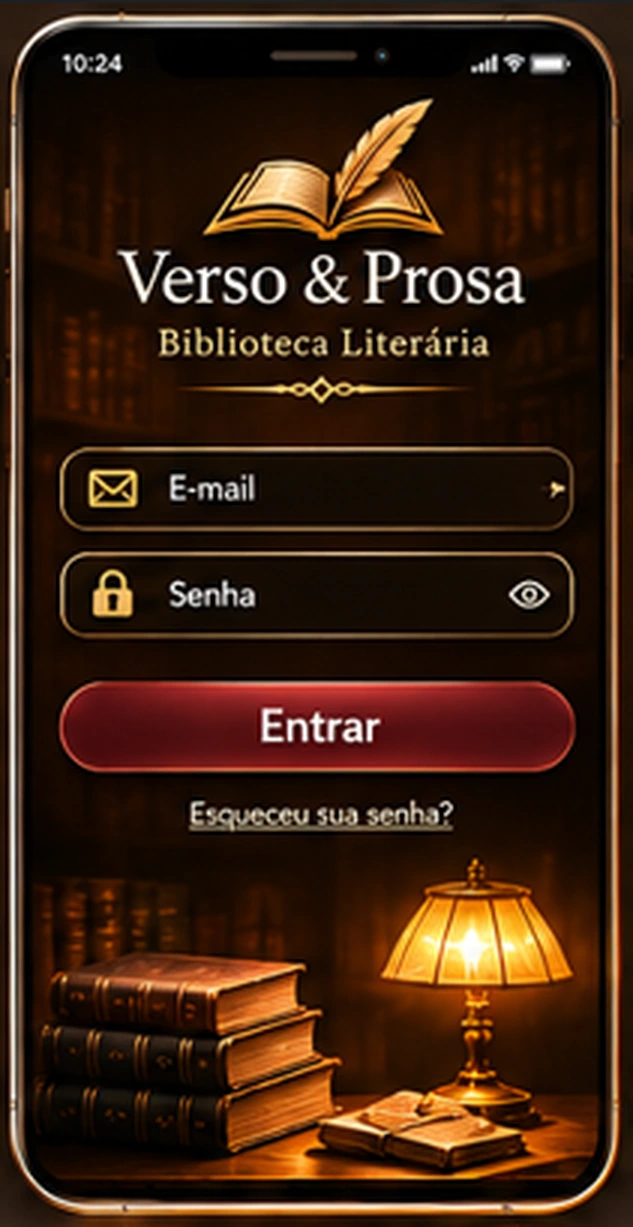
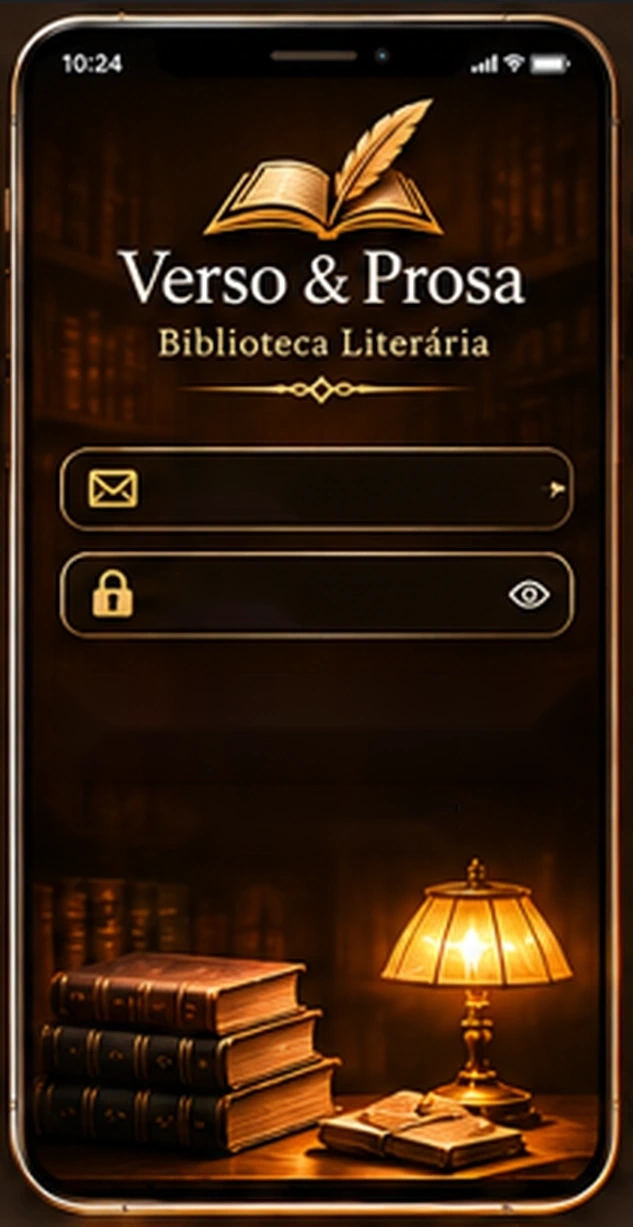
Add files via upload

Changed region(s): [[0.09, 0.5265, 0.9305, 0.6813], [0.2701, 0.3716, 0.4202, 0.4336], [0.2701, 0.4645, 0.4202, 0.4955]]

diff --git a/style.css b/style.css
@@ -585,3 +585,27 @@ main{background:linear-gradient(180deg,rgba(17,8,4,.16),rgba(13,6,3,.56))}
  .login-screen{padding:5px;}
  .login-mockup{height:calc(100svh - 10px);width:auto;max-width:95vw;}
 }
+
+
+/* LOGIN v2 — mockup fiel com controles HTML reais, sem texto achatado na arte */
+.login-screen{padding:10px;background:#080604;}
+.login-screen::before{background:url('./assets/scenes/login-mockup-approved.webp') center/auto 100% no-repeat;filter:blur(24px) brightness(.22);transform:scale(1.12);opacity:.7;}
+.login-mockup{position:relative;width:min(100%,420px,calc((100svh - 20px)*.516));height:auto;aspect-ratio:633/1227;max-height:calc(100svh - 20px);flex:0 1 auto;}
+.login-mockup-art{position:absolute;inset:0;width:100%;height:100%;object-fit:contain;display:block;user-select:none;-webkit-user-drag:none;}
+.login-hotspots{position:absolute;inset:0;margin:0;padding:0;border:0;}
+.login-input{position:absolute;left:10%;width:80%;height:7.15%;padding:0 8% 0 18%;border:0!important;border-radius:12px;background:transparent!important;color:#fff4df!important;font:500 clamp(13px,3.3vw,17px) Arial,sans-serif;outline:none!important;box-shadow:none!important;margin:0!important;z-index:2;}
+.login-input::placeholder{color:rgba(255,242,218,.92);opacity:1;}
+.login-input:focus{background:rgba(255,220,160,.045)!important;box-shadow:inset 0 0 0 1px rgba(238,190,103,.5)!important;}
+.login-email{top:36.5%;}
+.login-password{top:45.0%;}
+.login-eye{position:absolute;left:82.5%;top:45.1%;width:8%;height:6.9%;border:0;background:transparent;border-radius:50%;padding:0;z-index:3;}
+.login-eye:focus-visible,.login-submit:focus-visible,.login-forgot:focus-visible{outline:2px solid #f3c46d;outline-offset:1px;}
+.login-eye::after{content:"";position:absolute;inset:34%;border:1.5px solid rgba(255,239,211,.9);border-radius:70% 20%;transform:rotate(45deg);opacity:0;}
+.login-submit{position:absolute;left:9.5%;top:55.35%;width:81%;height:8.7%;border:1px solid #e6ad59;border-radius:999px;background:linear-gradient(180deg,#a72c35 0%,#86131e 48%,#590b17 100%);box-shadow:inset 0 2px 3px rgba(255,220,180,.22),inset 0 -3px 5px rgba(0,0,0,.42),0 3px 8px #0009;color:#fff4e7;font:700 clamp(17px,4.5vw,23px) Georgia,serif;text-shadow:0 1px 2px #39050a;display:flex;align-items:center;justify-content:center;z-index:2;cursor:pointer;}
+.login-submit::after{content:"Entrar";}
+.login-submit:disabled{cursor:wait;opacity:.75;}
+.login-forgot{position:absolute;left:23%;top:64.8%;width:54%;height:5.3%;padding:0;border:0;background:transparent;color:#fff0d5;font:600 clamp(11px,2.8vw,15px) Georgia,serif;text-decoration:underline;text-shadow:0 2px 4px #000;z-index:2;cursor:pointer;}
+.login-error{position:absolute;left:12%;top:70.1%;width:76%;min-height:0;margin:0;padding:0;color:#ffd5c8;text-align:center;font:600 11px/1.25 Arial,sans-serif;text-shadow:0 1px 3px #000;pointer-events:none;z-index:4;}
+.login-error:not(:empty){padding:5px 7px;border:1px solid rgba(222,160,90,.65);border-radius:8px;background:rgba(20,8,5,.88);}
+@media(max-width:480px){.login-screen{padding:0;min-height:100svh;}.login-mockup{width:min(100vw,calc(100svh*.516));max-height:100svh;}}
+@media(max-height:520px) and (orientation:landscape){.login-screen{padding:5px;}.login-mockup{height:calc(100svh - 10px);width:auto;max-width:95vw;}}

diff --git a/sw.js b/sw.js
@@ -3,7 +3,7 @@ const APP_FILES = [
  './','./index.html','./style.css?v=4.0.0','./app.js','./manifest.json',
  './assets/brand/verso-emblema.svg','./assets/brand/verso-prosa-logo.svg','./assets/logo-livro-pena.png',
  './assets/icons/icon-192.png','./assets/icons/icon-512.png','./assets/icons/icon-192-maskable.png','./assets/icons/icon-512-maskable.png','./assets/icons/apple-touch-icon.png',
- './assets/scenes/entrance-room.webp','./assets/scenes/lamp-books.webp','./assets/scenes/shelf-wall.webp','./assets/scenes/typewriter-desk.webp','./assets/scenes/open-book.webp','./assets/scenes/discover-authors.webp','./assets/scenes/lamp-stack.webp','./assets/scenes/welcome-approved.webp'
+ './assets/scenes/entrance-room.webp','./assets/scenes/lamp-books.webp','./assets/scenes/shelf-wall.webp','./assets/scenes/typewriter-desk.webp','./assets/scenes/open-book.webp','./assets/scenes/discover-authors.webp','./assets/scenes/lamp-stack.webp','./assets/scenes/welcome-approved.webp','./assets/scenes/login-mockup-approved.webp'
 ];
 self.addEventListener('install',e=>{e.waitUntil(caches.open(CACHE_NAME).then(c=>c.addAll(APP_FILES)));self.skipWaiting();});
 self.addEventListener('activate',e=>{e.waitUntil((async()=>{const keys=await caches.keys();await Promise.all(keys.filter(k=>k.startsWith('verso-prosa-')&&k!==CACHE_NAME).map(k=>caches.delete(k)));await self.clients.claim();})());});

diff --git a/index.html b/index.html
@@ -47,9 +47,9 @@
     <img class="login-mockup-art" src="./assets/scenes/login-mockup-approved.webp" alt="Tela de entrada da biblioteca Verso & Prosa, com livros, luminária e identidade visual dourada">
     <form id="loginForm" class="login-hotspots" autocomplete="on">
       <label class="sr-only" for="email">E-mail</label>
-      <input class="login-input login-email" id="email" name="email" type="email" autocomplete="username" aria-label="E-mail" required>
+      <input class="login-input login-email" id="email" name="email" type="email" autocomplete="username" placeholder="E-mail" aria-label="E-mail" required>
       <label class="sr-only" for="senha">Senha</label>
-      <input class="login-input login-password" id="senha" name="password" type="password" autocomplete="current-password" aria-label="Senha" required>
+      <input class="login-input login-password" id="senha" name="password" type="password" autocomplete="current-password" placeholder="Senha" aria-label="Senha" required>
       <button class="login-eye" id="togglePassword" type="button" aria-label="Mostrar senha" title="Mostrar senha"></button>
       <button class="login-submit" type="submit" aria-label="Entrar na biblioteca"></button>
     </form>
